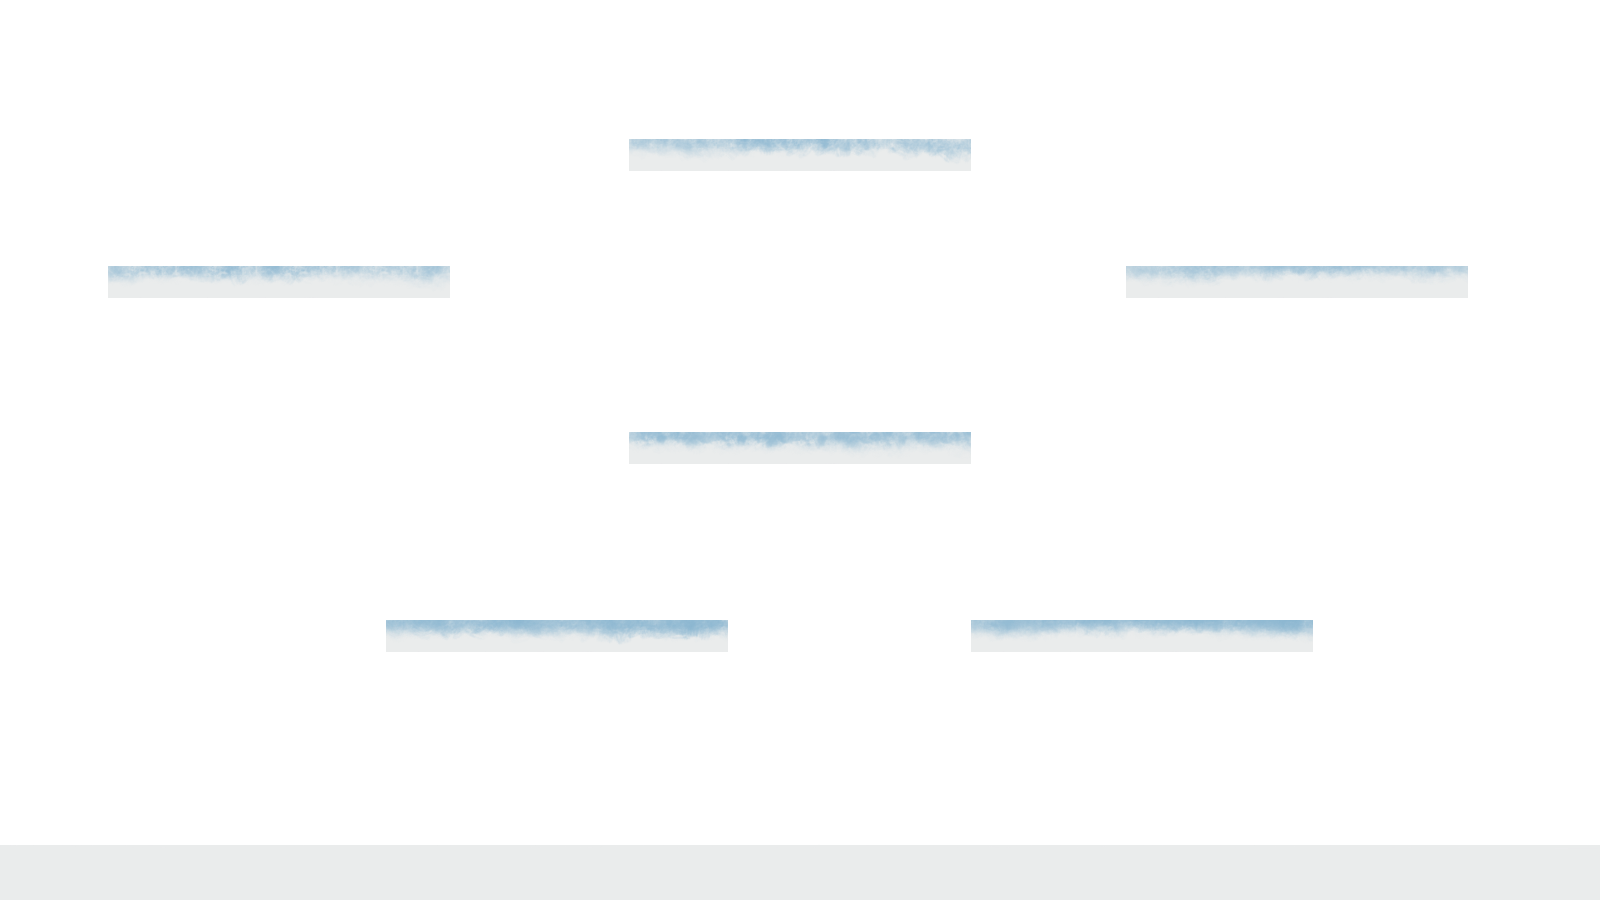
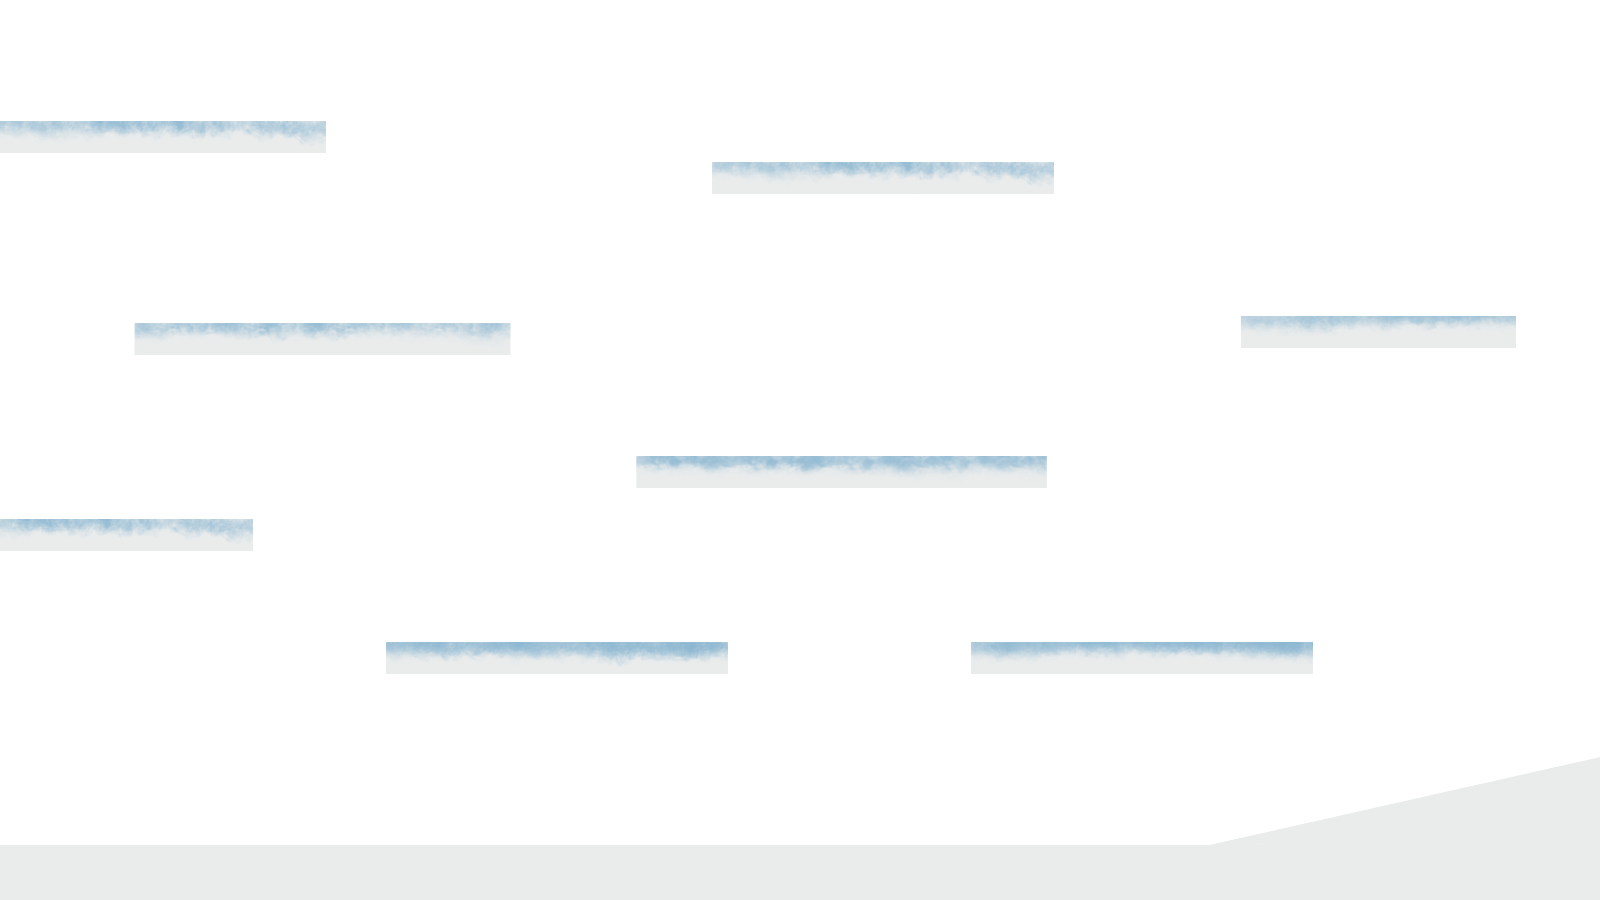
Feature: slide down hill on snowmap

diff --git a/src/game/player.py b/src/game/player.py
@@ -19,28 +19,27 @@ class Player(Animated):
     def __init__(self, *args, **kwargs):
         super(Player, self).__init__(*args, **kwargs)
 
-        self.falling_time = datetime.datetime.now()
-        self.jumping_time = datetime.datetime.now()
         self.current_moving_velocity = 7
         self.moving_velocity_on_ground = self.moving_velocity_in_air = 7
         self.velocity_gravity = 1
         self.velocity_jumping = self.max_jumping_speed = 20
-        self.velocity_time = 15
         self.landed = False
         self.is_jumping = False
         self.is_falling = True
         self.block_x_axis = False
+        self.moving_on_edge = False
         self.cut_frames(2)
         self.weapon = weapon
         self.velocity_counter = 0
         self.velocity_counter2 = 0
-        self.sliding_counter = self.max_sliding_time = 50
+        self.sliding_frame_counter = self.max_sliding_frames = 50
         map_dir = "\\".join(str(self.directory).split('\\')[:-3])
         self.fist_path = map_dir + f"\\waffen\\faeuste\\animation\\fists_{self.get_color(self.directory)}_animation"
         self.sword_path = map_dir + f"\\waffen\\schwert\\animation\\sword_hold_animation_{self.get_color(self.directory)}"
         # self.weapon = weapon.Weapon(weapon.WeaponType.Fist, [self.x, self.y], self.fist_path)
         self.weapon = weapon.Weapon(weapon.WeaponType.Sword, [self.x, self.y], self.sword_path)
-        self.death_animation = Animated(start=[0, 0], directory=map_dir + f"\\player\\death_animation\\death_animation_{self.get_color(self.directory)}")
+        self.death_animation = Animated(start=[0, 0],
+                                        directory=map_dir + f"\\player\\death_animation\\death_animation_{self.get_color(self.directory)}")
         self.blood_animation = Animated(start=[0, 0], directory=map_dir + r"\\player\\blood_animation")
         self.blood_animation.start_animation_in_direction(direction=1)
         self.blood_animation.double_frames(factor=2)
@@ -52,43 +51,72 @@ class Player(Animated):
         self.velocity_counter = data[3]
 
     def keep_sliding(self, func):
-        if self.landed and not self.is_jumping and self.sliding_counter > 1:
+        # if (self.landed or self.moving_on_edge) and \
+        #         not self.is_jumping and \
+        #         not self.is_falling and \
+        #         self.sliding_frame_counter > 1:
+        # landed for when landed and moving_on_edge for when player s sliding down hill on snowmap
+        if (self.landed or self.moving_on_edge) and \
+                not self.is_falling and \
+                self.sliding_frame_counter > 1:
             if self.animation_direction == 0:
                 self.move(dirn=0,
                           v=int(func(player=self, dirn=0, distance=int(self.current_moving_velocity)) *
-                                math.sqrt(self.sliding_counter / self.max_sliding_time)))
-                self.sliding_counter -= 1
+                                math.sqrt(self.sliding_frame_counter / self.max_sliding_frames)))
+                self.sliding_frame_counter -= 1
             if self.animation_direction == 1:
                 self.move(dirn=1,
                           v=int(func(player=self, dirn=1, distance=int(self.current_moving_velocity)) *
-                                math.sqrt(self.sliding_counter / self.max_sliding_time)))
-                self.sliding_counter -= 1
+                                math.sqrt(self.sliding_frame_counter / self.max_sliding_frames)))
+                self.sliding_frame_counter -= 1
+                print("move left")
 
     def reset_sliding_counter(self):
-        self.sliding_counter = self.max_sliding_time
+        self.sliding_frame_counter = self.max_sliding_frames
 
     def stop_sliding(self):
-        self.sliding_counter = 1
+        self.sliding_frame_counter = 1
 
     def draw(self, g):
         if self.health > 0:
             super(Player, self).draw(g=g)
-            pygame.draw.line(g, pygame.Color(231, 24, 55), (self.x, self.y - 5), (self.x + self.frame_width, self.y - 5), 3)
+
+            # health bar
+            pygame.draw.line(surface=g,
+                             color=pygame.Color(231, 24, 55),
+                             start_pos=(self.x, self.y - 5),
+                             end_pos=(self.x + self.frame_width, self.y - 5),
+                             width=3)
             if self.health > 0:
-                pygame.draw.line(g, pygame.Color(45, 175, 20), (self.x, self.y - 5),
-                                 (self.x + (self.frame_width * (self.health / 100)), self.y - 5), 3)
-            pygame.draw.line(g, pygame.Color(20, 20, 20), (self.x, self.y - 10), (self.x + self.frame_width, self.y - 10),
-                             3)
+                pygame.draw.line(surface=g,
+                                 color=pygame.Color(45, 175, 20),
+                                 start_pos=(self.x, self.y - 5),
+                                 end_pos=(self.x + (self.frame_width * (self.health / 100)), self.y - 5),
+                                 width=3)
+
+            # durability bar
+            pygame.draw.line(surface=g,
+                             color=pygame.Color(20, 20, 20),
+                             start_pos=(self.x, self.y - 10),
+                             end_pos=(self.x + self.frame_width, self.y - 10),
+                             width=3)
             if self.weapon.durability > 0:
-                pygame.draw.line(g, pygame.Color(25, 25, 200), (self.x, self.y - 10),
-                                 (self.x + (self.frame_width * (self.weapon.durability / 100)), self.y - 10),
-                                 3)
+                pygame.draw.line(surface=g,
+                                 color=pygame.Color(25, 25, 200),
+                                 start_pos=(self.x, self.y - 10),
+                                 end_pos=(self.x + (self.frame_width * (self.weapon.durability / 100)), self.y - 10),
+                                 width=3)
+
             self.weapon.animation_direction = self.animation_direction
             self.weapon.draw(g=g, x=self.x, y=self.y, width=self.frame_width, height=self.frame_height)
             self.weapon.draw(g=g, x=self.x, y=self.y, width=self.frame_width, height=self.frame_height)
+
+            # bloodsplash animation
             if self.weapon.hitted_me or self.blood_animation.current_frame > 0:
-                self.blood_animation.set_pos(self.x-47, self.y+15)
+                self.blood_animation.set_pos(self.x - 47, self.y + 15)
                 self.blood_animation.draw_animation_once(g=g, reset=True)
+
+        # death animation
         else:
             self.death_animation.set_pos(self.x, self.y)
             self.death_animation.draw_animation_once(g=g)
@@ -158,17 +186,15 @@ class Player(Animated):
                 # is currently not jumping
                 if not self.is_jumping:
                     self.is_jumping = True
-                    # reset timer to current time
-                    self.jumping_time = datetime.datetime.now()
+                    self.landed = False
 
-                # after certain time, decrease jumping speed
-                # elif datetime.datetime.now() - self.jumping_time > datetime.timedelta(milliseconds=self.velocity_time):
-                elif self.velocity_counter2 >= self.velocity_counter:
+                # after certain amount of frames, decrease jumping speed
+                if self.velocity_counter2 >= self.velocity_counter:
                     self.velocity_jumping -= 1
-                    # reset timer to current time
-                    self.jumping_time = datetime.datetime.now()
+                    # reset frame counter to 0
                     self.velocity_counter2 = 0
 
+                # otherwise just increase frame counter
                 else:
                     self.velocity_counter2 += 1
 
@@ -227,15 +253,10 @@ class Player(Animated):
                 if not self.is_falling:
                     self.is_falling = True
                     self.landed = False
-                    # reset timer to current time
-                    self.falling_time = datetime.datetime.now()
 
-                # after certain time increase the falling speed until it's maximum
-                # elif datetime.datetime.now() - self.falling_time > datetime.timedelta(milliseconds=self.velocity_time):
+                # after certain amount of frames, decrease jumping speed
                 elif self.velocity_counter2 >= self.velocity_counter:
                     self.velocity_gravity += 1
-                    # reset timer to current time
-                    self.falling_time = datetime.datetime.now()
                     self.velocity_counter2 = 0
 
                     # limit the falling speed to it's maximum
@@ -247,7 +268,8 @@ class Player(Animated):
 
                 # move player down with speed calculated in func()
                 self.move(dirn=3, v=int(vel))
-                self.block_x_axis = False
+                if vel > 5:
+                    self.block_x_axis = False
 
             # otherwise check if the player is really landed or may standing/hanging on an edge
             elif vel <= 0:
@@ -264,6 +286,10 @@ class Player(Animated):
                         # shift back the df and move to the right so in next cycle the player will continue to fall
                         self.shift_df(df=self.solid_df, dirn=1, n=moving_factor)
                         self.move(dirn=0, v=int(moving_factor))
+                        self.move(dirn=3, v=int(vel))
+                        # to be able to slide on snowmap after ending the hill
+                        self.moving_on_edge = True
+                        self.reset_sliding_counter()
 
                     else:
                         # try the same for direction left
@@ -274,6 +300,10 @@ class Player(Animated):
                         if vel > 0:
                             self.shift_df(df=self.solid_df, dirn=0, n=moving_factor)
                             self.move(dirn=1, v=int(moving_factor))
+                            self.move(dirn=3, v=int(vel))
+                            # to be able to slide on snowmap after ending the hill
+                            self.moving_on_edge = True
+                            self.reset_sliding_counter()
 
                         # otherwise it means that the player is standing on its feet, so he is landed correctly
                         # so stop falling and reset the parameters
@@ -282,6 +312,7 @@ class Player(Animated):
                             self.landed = True
                             self.block_x_axis = False
                             self.is_falling = False
+                            self.moving_on_edge = False
                             self.velocity_gravity = 1
                             self.current_moving_velocity = self.moving_velocity_on_ground
 
